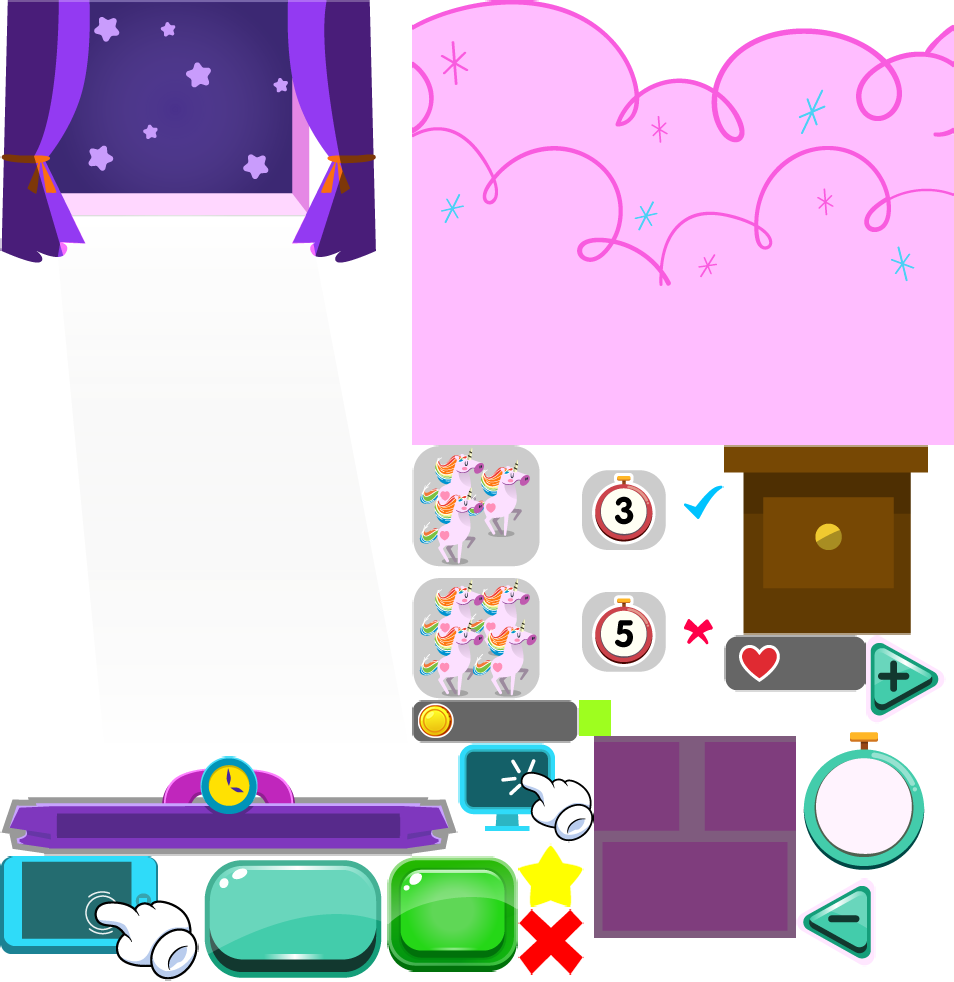
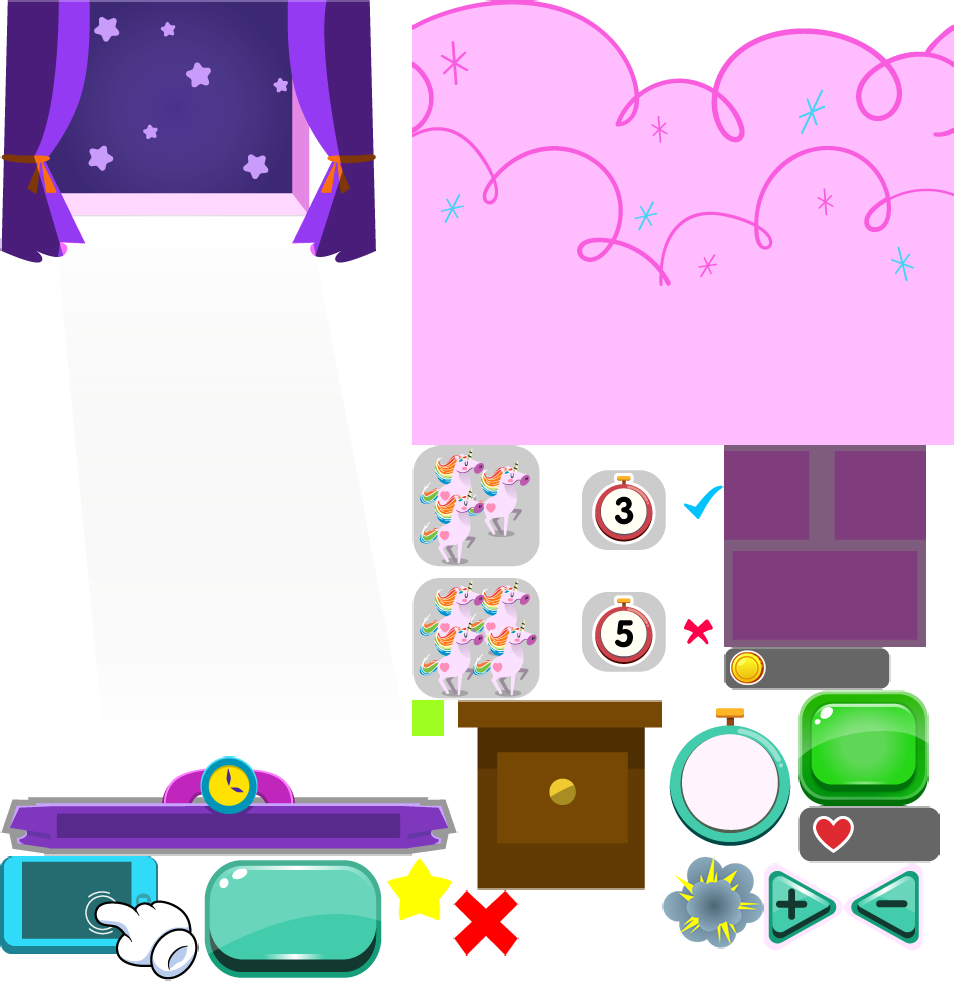
UniDream programming Fixed

Changed region(s): [[0.3952, 0.4277, 1.0, 1.0]]

diff --git a/newStructure/minigames/uniDream/js/scenes/uni.js b/newStructure/minigames/uniDream/js/scenes/uni.js
@@ -27,8 +27,14 @@ var uni = function(){
 		],
 		images: [
 			{   name:"fondo",
-				file: "images/uni/fondo.png"}
+				file: "images/uni/fondo.png"
+			},
+			{
+				name:'tutorial_image',
+				file:"images/uni/tutorial_image.png",
+			}
 		],
+		
 		sounds: [
 			{	name: "pop",
 				file: soundsPath + "pop.mp3"},
@@ -53,8 +59,41 @@ var uni = function(){
 			{   name: "alarmBell",
 				file: soundsPath + "alarmBell.mp3"},
 			{   name: "horse_gallop",
-				file: soundsPath + "horse_gallop.mp3"}
+				file: soundsPath + "horse_gallop.mp3"},
+			{   name: "uniSong",
+				file: soundsPath + "songs/fantasy_ballad.mp3"},
+		],
+		spines: [
+			{
+				name:"theffanie",
+				file:"images/spine/theffanie/theffanie.json"
+			},
+			{
+				name:"unicorn",
+				file:"images/spine/unicorn/unicorn.json"
+			},
+			{
+				name:"donkey",
+				file:"images/spine/donkey/donkey.json"
+			}
+		],
+		spritesheets: [
+			{
+                name:"hand",
+                file:"images/spine/hand/hand.png",
+                width:115,
+                height:111,
+                frames:23
+            },
+			{
+                name:"coin",
+                file:"images/Spine/coin/coin.png",
+                width:122,
+                height:123,
+                frames:12
+            }
 		]
+		
 	}
 
 	var NUM_LIFES = 3
@@ -77,10 +116,13 @@ var uni = function(){
 	var gameIndex = 53
 	var tutoGroup
 	var uniSong
+	var tutorialLevel
 	var heartsGroup = null
 	var pullGroup = null
 	var clock
+	var hand
 	var timeValue
+	var coins
 	var quantNumber
 	var inputsEnabled
 	var pointsBar
@@ -106,6 +148,7 @@ var uni = function(){
 		//gameActive = true
 		lives = NUM_LIFES
 		timeValue = 20
+		tutorialLevel=true;
 		quantNumber = 2
 		roundCounter = 0
 		unicornList= []
@@ -162,14 +205,14 @@ var uni = function(){
 		pointsBar.number = 0
 
 	}
-
+	
 	function createGameObjects(){
 		pullGroup = game.add.group()
 		pullGroup.x = -game.world.centerX * 2
 		pullGroup.y = -game.world.centerY * 2
 		sceneGroup.add(pullGroup)
 		pullGroup.alpha = 0
-
+		
 		var startX = - 90
 		var startY = -190
 
@@ -231,20 +274,7 @@ var uni = function(){
 
 	function preload(){
 
-		game.stage.disableVisibilityChange = false;
-		game.load.audio('uniSong', soundsPath + 'songs/fantasy_ballad.mp3');
 
-		/*game.load.image('introscreen',"images/uni/introscreen.png")
-		game.load.image('howTo',"images/uni/how" + localization.getLanguage() + ".png")
-		game.load.image('buttonText',"images/uni/play" + localization.getLanguage() + ".png")*/
-
-		game.load.spine('theffanie', "images/spine/theffanie/theffanie.json")
-		game.load.spine('unicorn', "images/spine/unicorn/unicorn.json")
-		game.load.spine('donkey', "images/spine/donkey/donkey.json")
-
-		
-
-		game.load.image('tutorial_image',"images/uni/tutorial_image.png")
 		//loadType(gameIndex)
 
 
@@ -311,7 +341,9 @@ var uni = function(){
 
 			game.add.tween(numberText.scale).to({x:1, y:1}, 800, Phaser.Easing.Back.Out, true)
 			game.add.tween(numberText).to({alpha:1}, 800, Phaser.Easing.Cubic.Out, true)
-
+			if(tutorialLevel){
+				hand.alpha=1;
+			}
 			dreamGroup.button.inputEnabled = true
 			clockCounter.mas.inputEnabled = true
 			clockCounter.menos.inputEnabled = true
@@ -445,7 +477,7 @@ var uni = function(){
 		sceneGroup.add(tutoGroup)
 
 		tutorialHelper.createTutorialGif(tutoGroup,onClickPlay)
-
+		
 		/*var rect = new Phaser.Graphics(game)
 		rect.beginFill(0x000000)
 		rect.drawRect(0,0,game.world.width *2, game.world.height *2)
@@ -611,8 +643,9 @@ var uni = function(){
 	}
 	
 	function rightReaction() {
-		addPoint(1)
-
+		
+		Coin(clockCounter,pointsBar,100);
+		
 		for(var spineIndex = 0; spineIndex < objectsInGame.length; spineIndex++){
 			var spine = objectsInGame[spineIndex]
 			var toY = game.rnd.integerInRange(-190, 190)
@@ -667,7 +700,10 @@ var uni = function(){
 	function checkCorrect(obj) {
 		isCorrect = true
 		clock.tween.stop()
-
+		if(tutorialLevel){
+			tutorialLevel=false;
+			hand.alpha=0;
+		}
 		var button = obj.parent
 		var numberText = clockCounter.numberText
 		obj.inputEnabled = false
@@ -778,6 +814,16 @@ var uni = function(){
 		minButton.x = - 120
 		minButton.events.onInputDown.add(function (obj) {
 			addCounter(obj, -1)
+			if(tutorialLevel && clockCounter.number < answer){
+				hand.x=clockCounter.x;
+				hand.y=clockCounter.y-70;
+			}else if(tutorialLevel && clockCounter.number > answer){
+				hand.x=clockCounter.x-220;
+				hand.y=clockCounter.y-70;
+			}else if(tutorialLevel && clockCounter.number === answer){
+				hand.x=clockCounter.x-120;
+				hand.y=clockCounter.y-70;
+			}
 		})
 		clockCounter.menos = minButton
 
@@ -786,15 +832,49 @@ var uni = function(){
 		maxButton.x = 120
 		maxButton.events.onInputDown.add(function (obj) {
 			addCounter(obj, +1)
+			if(tutorialLevel && clockCounter.number < answer){
+				hand.x=clockCounter.x;
+				hand.y=clockCounter.y-70;
+			}else if(tutorialLevel && clockCounter.number > answer){
+				hand.x=clockCounter.x-220;
+				hand.y=clockCounter.y-70;
+			}else if(tutorialLevel && clockCounter.number === answer){
+				hand.x=clockCounter.x-120;
+				hand.y=clockCounter.y-70;
+			}
 		})
 		clockCounter.mas = maxButton
 
 		var correctParticle = createPart("star")
 		sceneGroup.correctParticle = correctParticle
 
-		var wrongParticle = createPart("wrong")
+		var wrongParticle = createPart("smoke")
 		sceneGroup.wrongParticle = wrongParticle
+		
+		hand=game.add.sprite(clockCounter.mas.centerX,clockCounter.mas.centerY, "hand")
+        hand.anchor.setTo(0.5,0.5);
+        hand.scale.setTo(1,1);
+        hand.animations.add('hand');
+        hand.animations.play('hand', 24, true);
+        hand.alpha=0;
+		hand.x=clockCounter.x;
+		hand.y=clockCounter.y-70;
 	}
+	
+	function Coin(objectBorn,objectDestiny,time){
+        //objectBorn= Objeto de donde nacen
+        coins.x=objectBorn.centerX
+        coins.y=objectBorn.centerY
+        game.add.tween(coins).to({alpha:1}, time, Phaser.Easing.Cubic.In, true,100)
+        game.add.tween(coins).to({y:objectBorn.centerY-100},time+500,Phaser.Easing.Cubic.InOut,true).onComplete.add(function(){
+            game.add.tween(coins).to({x:objectDestiny.centerX,y:objectDestiny.centerY},200,Phaser.Easing.Cubic.InOut,true,time)
+            game.add.tween(coins).to({alpha:0}, time+200, Phaser.Easing.Cubic.In, true,200).onComplete.add(function(){
+                coins.x=objectBorn.centerX
+                coins.y=objectBorn.centerY
+                addPoint(1)
+            })
+        })
+    }
 	
 	function createBackground() {
 		var background = game.add.tileSprite(0,0,game.world.width, game.world.height, "atlas.uni", "room")
@@ -803,6 +883,14 @@ var uni = function(){
 		var window = sceneGroup.create(0,0, "atlas.uni", "window")
 		window.x = game.world.centerX + 80, window.y = game.world.centerY + 80
 		window.anchor.setTo(0.5, 0.5)
+		
+		//Coins
+        coins=game.add.sprite(game.world.centerX,game.world.centerY, "coin");
+        coins.anchor.setTo(0.5);
+        coins.scale.setTo(0.5);
+        coins.animations.add('coin');
+        coins.animations.play('coin', 24, true);
+        coins.alpha=0;
 	}
 
 	return {
@@ -828,7 +916,7 @@ var uni = function(){
 			game.onResume.add(function(){
 				game.sound.mute = false
 			}, this);
-
+			game.stage.disableVisibilityChange = false;
 			initialize()
 
 			// createHearts()
